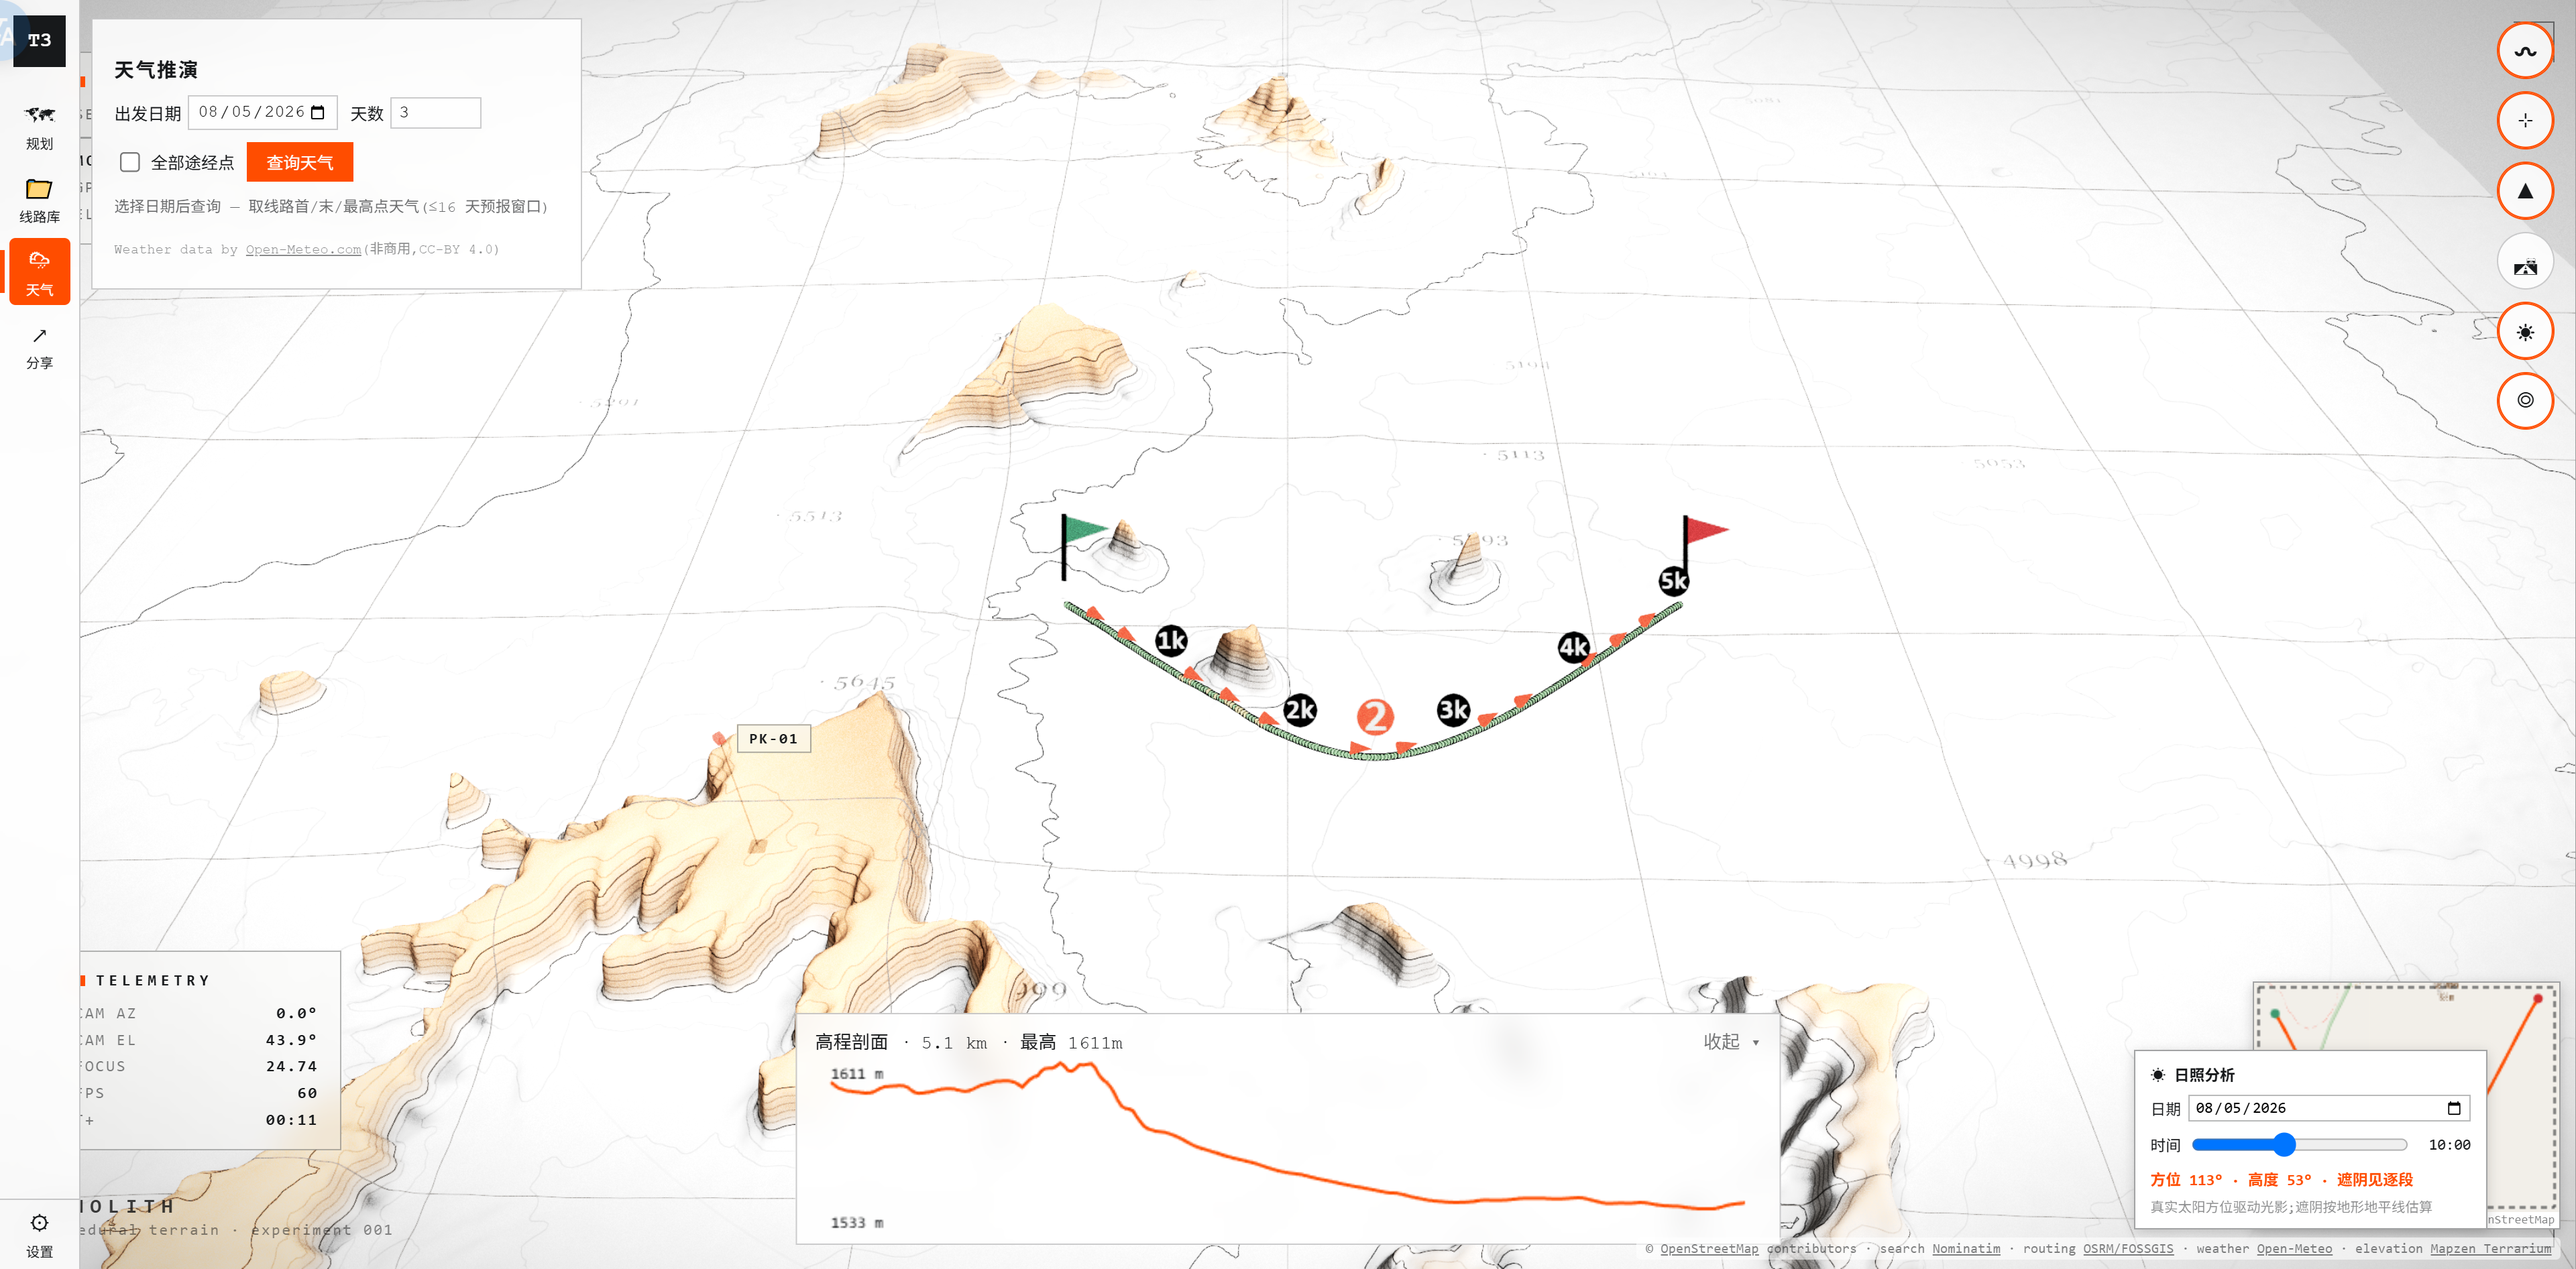
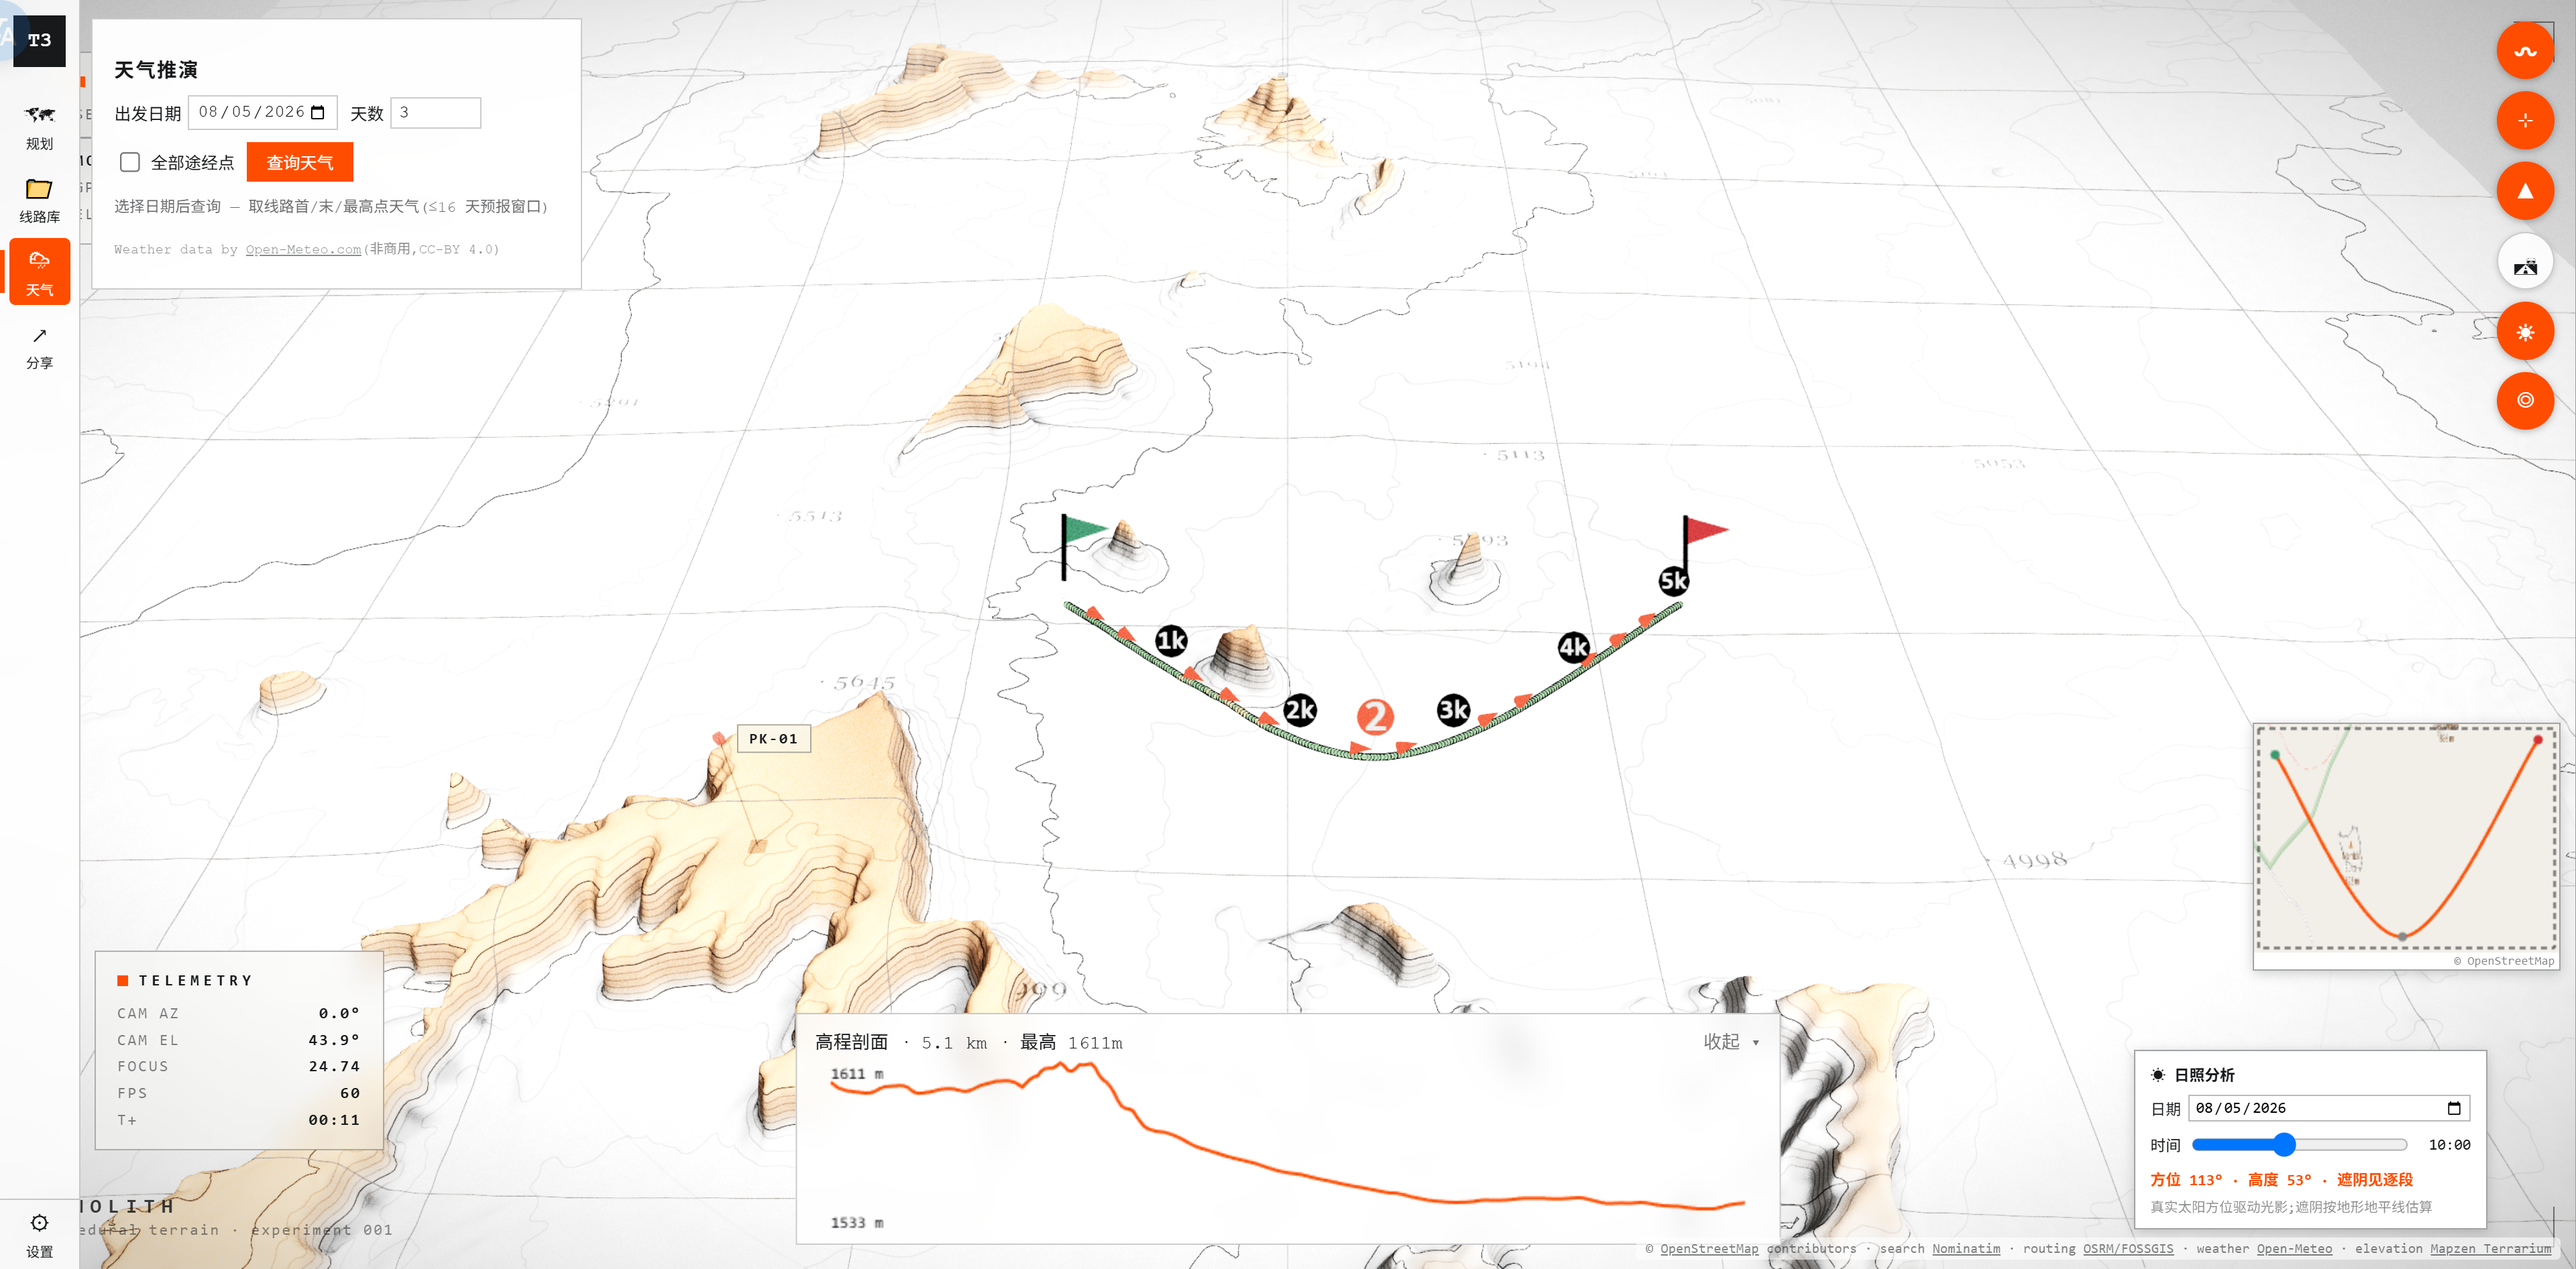
fix(ux1): float collisions (sun/overview stack, telemetry offset, panel opacity) + ops regroup + active toggle state (159 tests)

diff --git a/src/style.css b/src/style.css
@@ -104,7 +104,7 @@ body {
   min-width: 190px;
 }
 .hud-tl { top: 34px; left: 34px; }
-.hud-brt { bottom: 78px; left: 34px; min-width: 160px; }
+.hud-brt { bottom: 78px; left: 62px; min-width: 160px; }
 
 .hud-kicker {
   display: flex;
@@ -320,7 +320,7 @@ body {
   border: 1px solid rgba(23,25,27,0.22); font-size: 15px; cursor: pointer;
   display: grid; place-items: center; position: relative; color: #17191b;
 }
-.ui-layer-btn.on { border-color: #ff4d00; box-shadow: 0 0 0 1px #ff4d00 inset; }
+.ui-layer-btn.on { background: #ff4d00; border-color: #ff4d00; color: #fff; box-shadow: 0 1px 5px rgba(0,0,0,0.3); }
 .ui-layer-tip {
   position: absolute; right: 44px; top: 50%; transform: translateY(-50%);
   font-size: 10px; background: #17191b; color: #fff; padding: 2px 6px;
@@ -554,3 +554,21 @@ body {
 .ui-fly-overlay .fill { height: 100%; width: 0; background: #ff4d00; transition: width 0.2s linear; }
 .ui-fly-overlay .fly-cancel { background: transparent; border: 1px solid rgba(23,25,27,0.4); font: 10px monospace; padding: 3px 8px; cursor: pointer; color: #17191b; }
 .ui-fly-overlay .fly-cancel:hover { border-color: #ff4d00; color: #ff4d00; }
+
+/* ------------------------------------------------------------------ UX1 layout fixes */
+/* P0-3: panel opacity — no bleed-through from the scene beneath */
+.ui-panel { background: rgba(255,255,255,0.96) !important; backdrop-filter: blur(8px); }
+/* P0-1: sun panel and overview inset share the bottom-right — stack, don't overlap */
+.ui-sun-panel { bottom: 26px; }
+body.sun-open .ui-overview { bottom: 196px; }
+/* layer buttons: subtle shadow on pale terrain */
+.ui-layer-btn { box-shadow: 0 1px 4px rgba(0,0,0,0.18); }
+/* P1-1: planning ops split into a compact edit row */
+.pp-ops-edit { display: flex; gap: 4px; }
+.pp-ops-edit button { flex: 1; padding: 4px 0; font-size: 10px; background: transparent; border: 1px solid rgba(23,25,27,0.25); color: rgba(23,25,27,0.8); font-family: monospace; cursor: pointer; }
+.pp-ops-edit button:hover { border-color: #ff4d00; color: #ff4d00; }
+.pp-ops-edit button.danger:hover { border-color: #d32f2f; color: #d32f2f; }
+.pp-ops-main { display: flex; gap: 6px; margin-top: 5px; }
+.pp-ops-main button { flex: 1; padding: 7px 0; font-size: 11px; font-family: monospace; cursor: pointer; background: transparent; border: 1px solid rgba(23,25,27,0.35); color: #17191b; }
+.pp-ops-main button.primary { background: #ff4d00; border-color: #ff4d00; color: #fff; font-weight: bold; }
+.pp-ops-main button:hover:not(.primary) { border-color: #ff4d00; color: #ff4d00; }

diff --git a/src/ui/panels.js b/src/ui/panels.js
@@ -103,26 +103,34 @@ export function createPlanningPanel(actions) {
   hint.textContent = '点击地形继续加点 · ESC 退出规划'
   el.appendChild(hint)
 
-  const row = document.createElement('div')
-  row.className = 'ui-btn-row'
-  const mk = (label, fn, primary = false) => {
+  // action rows: compact edit group + main group (share/export exits live in the share tab)
+  const opsEdit = document.createElement('div')
+  opsEdit.className = 'pp-ops-edit'
+  const mkE = (label, fn, danger = false) => {
+    const b = document.createElement('button')
+    b.textContent = label
+    if (danger) b.classList.add('danger')
+    b.onclick = fn
+    opsEdit.appendChild(b)
+  }
+  mkE('撤销', actions.onUndo)
+  mkE('重做', actions.onRedo)
+  mkE('清空', actions.onClear, true)
+  mkE('反向', actions.onReverse)
+  mkE('闭环', actions.onCloseLoop)
+  el.appendChild(opsEdit)
+  const opsMain = document.createElement('div')
+  opsMain.className = 'pp-ops-main'
+  const mkM = (label, fn, primary = false) => {
     const b = document.createElement('button')
     b.textContent = label
     if (primary) b.classList.add('primary')
     b.onclick = fn
-    row.appendChild(b)
+    opsMain.appendChild(b)
   }
-  mk('撤销', actions.onUndo)
-  mk('重做', actions.onRedo)
-  mk('清空', actions.onClear)
-  mk('反向', actions.onReverse)
-  mk('闭环', actions.onCloseLoop)
-  mk('保存', actions.onSave, true)
-  mk('分享链接', actions.onShare)
-  mk('高德链接', actions.onExportAmap)
-  mk('导出GPX', actions.onExportGpx)
-  mk('导入GPX', actions.onImportGpx)
-  el.appendChild(row)
+  mkM('保存', actions.onSave, true)
+  mkM('导入GPX', actions.onImportGpx)
+  el.appendChild(opsMain)
 
   return {
     el,

diff --git a/src/main.js b/src/main.js
@@ -2013,7 +2013,7 @@ createLayerButtons({
     { id: 'grid', icon: '⊹', tip: '测量网格', initial: params.gridOpacity > 0, onToggle: (id, on) => gridOpacityCtrl.setValue(on ? 1 : 0) },
     { id: 'labels', icon: '▲', tip: '山峰标签', initial: params.labels, onToggle: (id, on) => labelsCtrl.setValue(on) },
     { id: 'mapov', icon: '🛣', tip: '路网叠加', initial: params.mapOverlay, onToggle: (id, on) => { params.mapOverlay = on; terrain.setOverlayMix(on ? 0.55 : 0) } },
-    { id: 'sun', icon: '☀', tip: '日照分析', initial: false, onToggle: (id, on) => { sunState.on = on; sunPanel.classList.toggle('hidden', !on); if (on) applySun() } },
+    { id: 'sun', icon: '☀', tip: '日照分析', initial: false, onToggle: (id, on) => { sunState.on = on; sunPanel.classList.toggle('hidden', !on); document.body.classList.toggle('sun-open', on); if (on) applySun() } },
     { id: 'hud', icon: '◎', tip: 'HUD', initial: params.hud, onToggle: (id, on) => hudCtrl.setValue(on) },
   ],
 })

diff --git a/collab/trip3d-ux1-layout-2026-08-05/REVIEW.md b/collab/trip3d-ux1-layout-2026-08-05/REVIEW.md
@@ -1,0 +1,12 @@
+# UX1 收尾(2026-08-05)
+
+## 修复映射
+| 项 | 修法 | 验证 |
+|---|---|---|
+| P0-1 日照×小地图重叠 | body.sun-open 时 overview 上移(bottom 196px) | ✅ CDP 复拍:上下独立排列 |
+| P0-2 遥测压 rail | hud-brt left 34→62px | ✅ 间距清晰 |
+| P0-3 面板透底 | .ui-panel 0.96 白+blur8 | ✅ 复拍无杂字 |
+| P1-1 按钮分区 | 编辑行(撤销/重做/清空danger/反向/闭环)+主行(保存primary/导入GPX);分享/高德/导出GPX 迁分享 tab | ✅ 面板两行整齐 |
+| P2-2 激活态 | layer-btn.on 橙底白图+阴影;基础微阴影 | ✅ 日照钮橙底 |
+
+159/159 + build ✓。Codex review 阻塞同前(runbook)。
